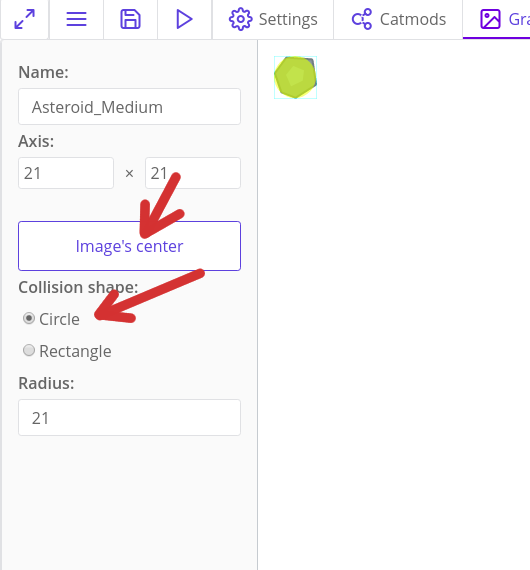
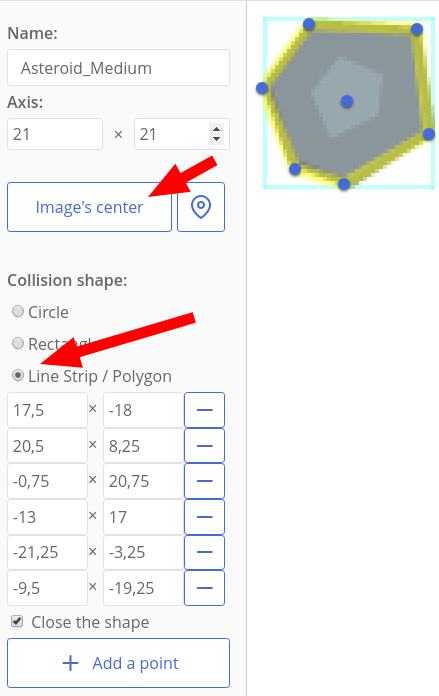
:memo: Update Space Shooter tutorial

diff --git a/docs/tut-making-shooter.md b/docs/tut-making-shooter.md
@@ -22,7 +22,9 @@ Now open the "Graphic" tab on the top of the ct.IDE window, and drag & drop thes
 
 A card for each of the images will appear. Let's open the `PlayerShip` and configure it. We will see a yellow shape that defines its collision shape. For now, it covers too much empty space, especially above wings. To fix it, we should modify this collision shape in the left column.
 
-Firstly, press a button "Image's center", so its axis is placed at the ship's center. Next, modify the four values above the "Fill" button. Each one defines how far should the rectangular shape extend from the image's center. I chose `12` to the top, `50` on sides and `32` to the bottom. 
+Firstly, press a button "Image's center", so its axis is placed at the ship's center. 
+
+Next, select the "**Line Strip / Polygon**" option under the label "Collision Shape". Add a couple of additional points and move them with your mouse so that the resulting polygon resembles the ship's shape. 
 
 ![](./images/tutSpaceShooter_03.png)
 
@@ -32,12 +34,11 @@ The next graphic asset, `Laser_Blue`, should be centered too, and since the coll
 
 ![](./images/tutSpaceShooter_04.png)
 
-
-Both asteroids are definitely more circular by their shapes. Set their collision shape to **Circle**, and don't forget to set their axis to center.
-
+Both asteroids are better defined as polygons by their concave or sharp shapes. Set their collision shape to **Line Strip / Polygon**, and don't forget to set their axis to center.
+ 
 ![](./images/tutSpaceShooter_05.png)
 
-The `EnemyShip`'s shape can be treated either as a **Circle** or as a **Rectangle**. Select the one you think is better.
+The `EnemyShip`'s shape can be treated as a **Polygon**.
 
 The background image may be left as is, because it won't collide with other things in the game.
 
@@ -91,16 +92,30 @@ After that, save the project and click a 'play' button. At this point, you will 
 
 ## Adding Player's Movement
 
-Handling user's input is the most important task. In this section we will make the blue ship move when a player presses arrow keys.
+Handling user's input is the most important task. In this section we will make the blue ship move when a player presses arrow keys or WASD.
 
-In order to handle keyboard inputs, we need to enable keyboard module. Press the "Catmods" tab, find a `keyboard` module on the left, select it, and then push the big red button to enable it. Then add `random` and `place` modules, as we will need them later too.
+In order to handle keyboard inputs, we need to enable keyboard module. Press the "Catmods" tab, find a `keyboard` module on the left, select it, and then push the big red button to enable it (it may be enabled by default, though). Then add `mouse`, `random` and `place` modules, as we will need them later too.
 
 ![](./images/tutSpaceShooter_12.png)
+
+### Adding actions
+
+Actions in ct.js are entities that group different input methods into events, and allow you to listen to player input in code. You can read more about them [here](/actions.html).
+
+For now, let's create a basic input scheme for our shooter. Open the "Settings" tab, then press the button labelled as "Edit actions". We will need to define three different actions: for shooting laser bullets, for moving horisontally, and for moving vertically.
+
+First, click the "Add an action" button. Then, input the name of the first module. Click the button called "Add an input method" to bind specific buttons to your action. Use its search to quickly filter available input methods.
+
+![](./images/tutSpaceShooter_15.png)
+
+Create three actions as in the picture above. Set multiplier value to `-1` for `keyboard.ArrowUp`, `keyboard.KeyW`, `keyboard.ArrowLeft`, and for `keyboard.A`, so that these keys will move the ship in the opposite direction.
+
+### Coding the movement
 
 Open the "Types" tab on the top, next move to `On Step` event.
 
 ::: tip
-`On Step` event occurs every frame before drawing, while `Draw` happens after all the `On Step` events in the room to draw a new frame. `On create` happens when you spawn a new Copy, and  `On Destroy` occurs before the `Draw` event if a Copy is killed.
+`On Step` event occurs every frame before drawing, while `Draw` happens after all the `On Step` events in the room to draw a new frame. `On Create` happens when you spawn a new Copy, and  `On Destroy` occurs before the `Draw` event if a Copy is killed.
 :::
 
 Write the following code:
@@ -108,17 +123,16 @@ Write the following code:
 ```js
 /**
  * Move the ship
+ * See Settings > Edit actions panel
+ * and "Actions" in the docs.
  */
 
-if (ct.keyboard.down['left']) { // Is the left arrow key pressed?
-    this.x -= 8 * ct.delta; // Move to the left by X axis
-}
-if (ct.keyboard.down['right']) { // Is the right arrow key pressed?
-    this.x += 8 * ct.delta; // Move to the right by X axis
-}
+this.x += 8 * ct.delta * ct.actions.MoveX.value; // Move by X axis
+this.y += 8 * ct.delta * ct.actions.MoveY.value; // Move by Y axis
+
 
 /**
- * Check whether the shif fell off the viewport
+ * Check whether the ship fell off the viewport
  */
 if (this.x < 0) { // Have the ship crossed the left border?
     this.x = 0; // Go back to the left border
@@ -130,7 +144,13 @@ if (this.x > ct.viewWidth) { // Have the ship crossed the right border?
 this.move();
 ```
 
-First, we move the ship if arrow keys were pressed, then we check whether its X coordinate fell off the viewport. Here `0` means the left side of the room and `ct.viewWidth` means the horizontal size of the viewport, which forms the right side.
+Here we are using the created actions. First, we try to move the ship horisontally (by `x`, line 6). `ct.actions.MoveX` will return `1` if we pressed the right keyboard arrow or the "D" key, and will return `-1` if a player presses the left arrow or the "A" key. If nothing is pressed, it will return `0`, disabling the horisontal movement.
+
+`ct.delta` is needed to compensate possible lags and FPS drops. It is usually equal to `1` and doesn't add much, but will speed up the movement if some frames were dropped.
+
+Lastly, we multiply our intermediate speed value with the desired velocity, `8`, and do it all the same way for the `y` axis.
+
+We later check whether its X coordinate fell off the viewport. Here `0` means the left side of the room and `ct.viewWidth` means the horizontal size of the viewport, which forms the right side.
 
 All the methods starting with `ct.keyboard` come from the enabled module. You can read its documentation on the "Catmods" tab, "Reference" section.
 
@@ -212,12 +232,12 @@ Save the project and click the "Play" button at the top. The hostile ship will s
 
 ## Projectiles & Collision
 
-Now it is time to bring the guns.
+Now it is time to bring the guns 😎
 
 Open the `PlayerShip`'s `Step` event, and add this code:
 
 ```js
-if (ct.keyboard.pressed['space']) {
+if (ct.actions.Shoot.pressed) {
     ct.types.copy('Laser_Blue', this.x, this.y);
 }
 ```
